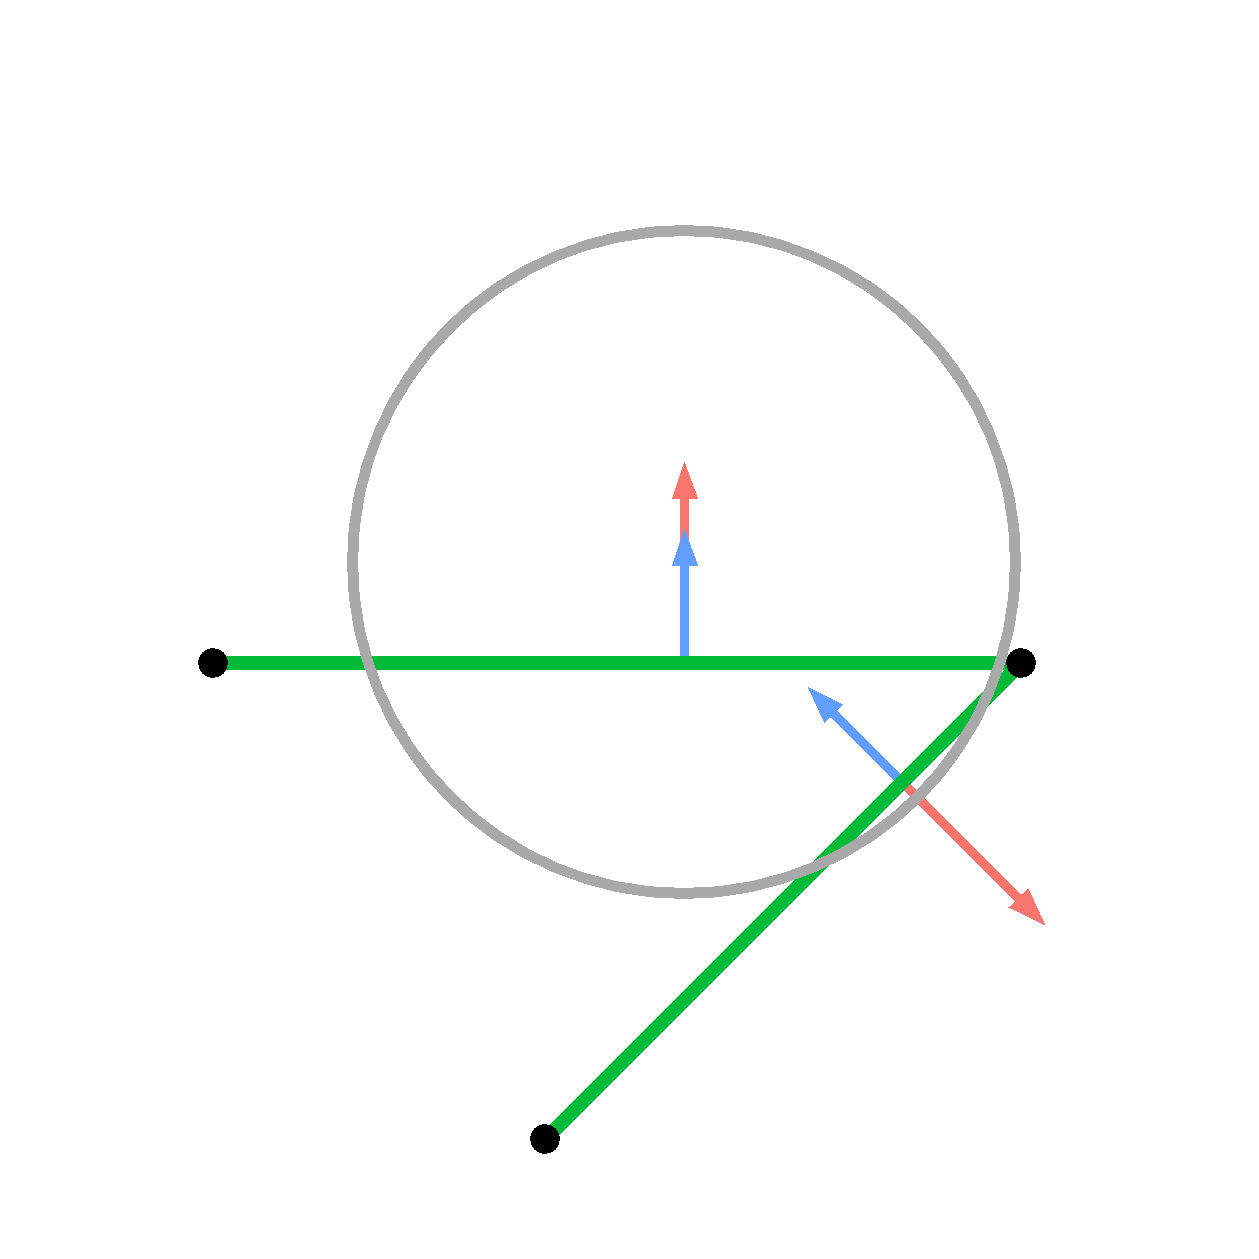
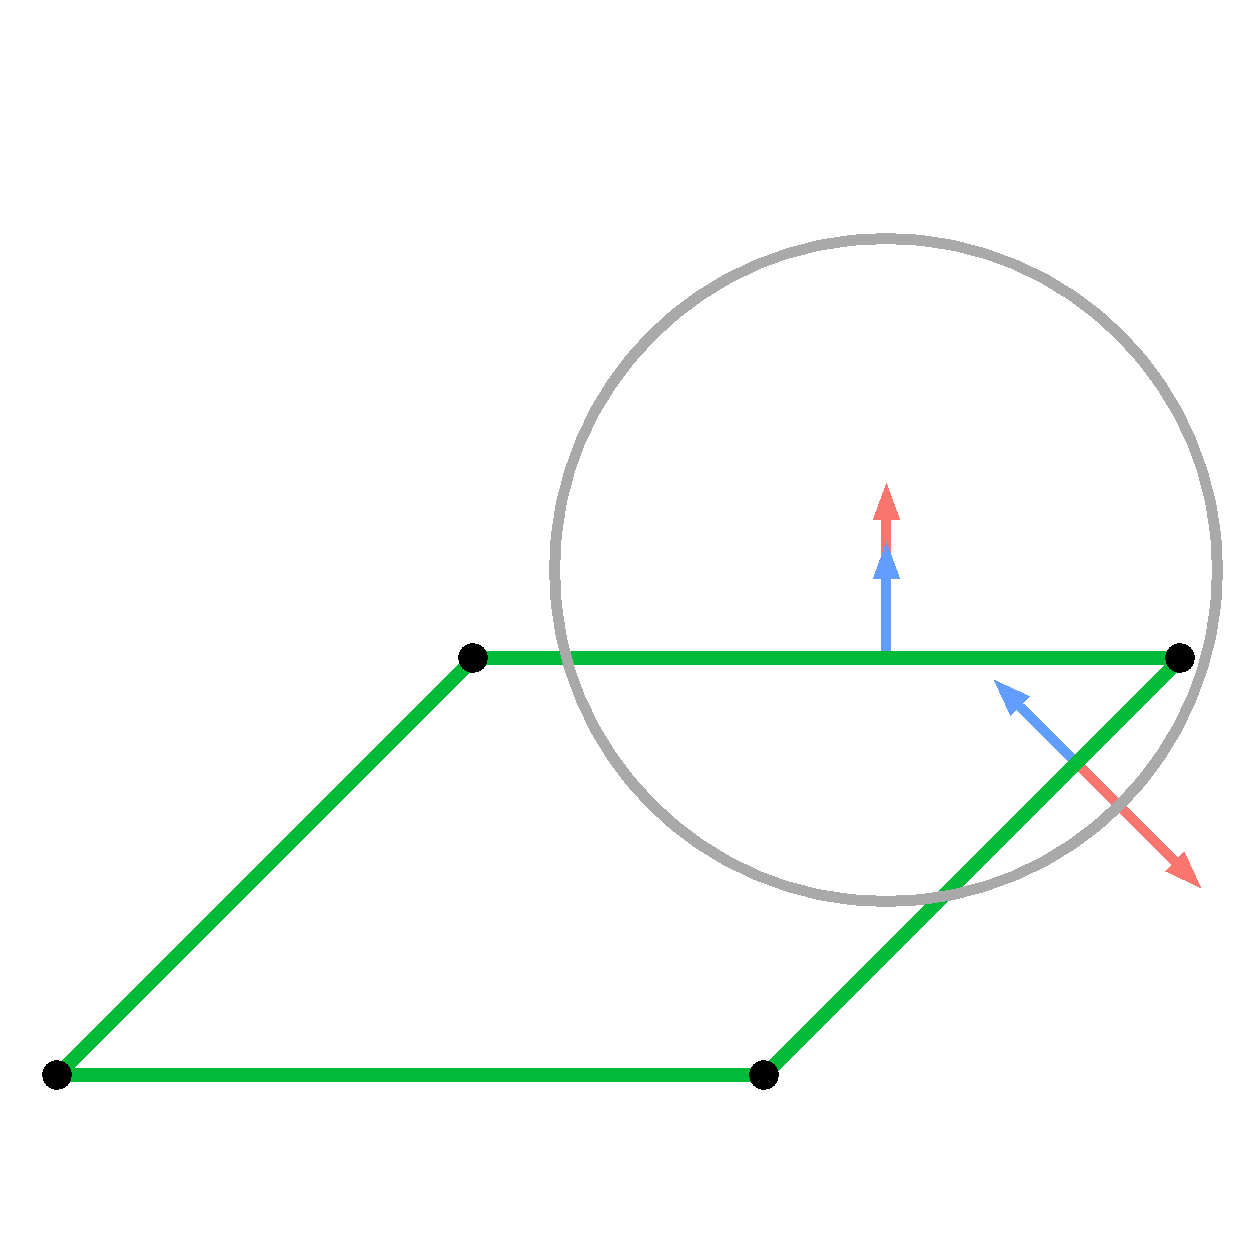
Force revision round 2

diff --git a/doc/src/Howto_granular_surfaces.rst b/doc/src/Howto_granular_surfaces.rst
@@ -182,7 +182,7 @@ to rotate using the :doc:`fix_modify <fix_modify>` command (see
 below).
 
 .. figure:: img/gransurf_mixer.png
-            :figwidth: 50%
+            :figwidth: 75%
             :align: right
             :target: _images/gransurf_mixer.png
 
@@ -352,10 +352,10 @@ the corner is unconnected. Otherwise, the corner is external if either edge is
 external, and internal if both edges are internal.
 
 To calculate force on a particle, LAMMPS finds a set of all lines or triangles
-that are geometrically in contact with the particle, :math:`(S_i)_\mathrm{all}`.
-For each line or traingle *i*, LAMMPS calculates the geometric overlap
-:math:`\delta_i` and the normal vector between the contact point and the
-particle :math:`\hat{n}_{r,i}`.
+that are geometrically in contact with the particle, :math:`{S}_\mathrm{all}`.
+For each line or triangle *i*, LAMMPS calculates the geometric overlap
+:math:`\delta_i` and the normal vector between the contact point on that
+line/triangle and the particle, :math:`\hat{n}_{r,i}`.
 
 Depending on the contact model, the force between a particle and a surface
 can depend on many variables including relative velocities, angular
@@ -363,121 +363,123 @@ velocities, sliding history, etc. Most importantly, the force depends on
 an effective overlap distance :math:`\delta_f` and an effective point of
 contact :math:`\vec{r}_c` or (equivalently) the direction of the normal
 force :math:`\hat{n}_f`. If a particle is in contact with a single line
-or triangle, there is an unambiguous geometrically-determined point of
-contact and overlap such that :math:`\delta_f = \delta_i` and
+or triangle *i*, there is an unambiguous geometrically-determined point
+of contact and overlap such that :math:`\delta_f = \delta_i` and
 :math:`\hat{n}_f = \hat{n}_{r,i}`. If a particle is in contact with two
-lines/triangles that are not connected, then two forces are applied
-with overlaps and directions determined from the geometric values for
-each line/triangle. However, if the particle is in contact with two (or
-more) connected lines/triangles, the calculation of :math:`\delta_f` and
-:math:`\hat{n}_f` is more complicated and is described in the remainder
-of this section.
+(or more) lines/triangles that are not connected, then two forces are
+applied with overlaps and directions determined from the geometric values
+for each line/triangle. However, if the particle is in contact with two
+(or more) connected lines/triangles, the calculation of :math:`\delta_f`
+and :math:`\hat{n}_f` is more complicated and is described in the
+remainder of this section.
 
-First, LAMMPS needs to evaluate a set of consistent sides of contact
-for each line/triangle. For a single line/triangle, which side or
-face of the surface is in contact is unambiguous. However, if a particle
-is in contact with two or more connected lines/triangles this depends on
-the network of connectivity. For instance, the below figure highlights
-a particle (gray circle) in contact with two (green) lines. From a
-naive local determination, one would determine the particle is in
-contact with the sides/faces of the line with a surface normal
-oriented in the blue direction. However, through the context of the
-convex connection, one can identify the physical surface normals (red).
-LAMMPS evaluates a consistent set of sides/faces (setting the sign of
-:math:`\hat{n}_s`) by walking through all connections of contacted
-surfaces starting from the primary contact. If there are still unchecked
-surfaces, LAMMPS finds the unchecked surface with the largest overlap
-and repeats the process.
+First, LAMMPS needs to identify a set of consistent sides of contact
+for each line/triangle in :math:`{S}_\mathrm{all}`. For a single line or
+triangle, which side or face of the surface is in contact is unambiguous.
+However, if a particle is in contact with two or more connected lines/triangles
+this depends on the network of connectivity. For instance, the below figure
+highlights a 2D system with a particle (gray circle) in contact with two (green)
+lines that are part of a rhombus shaped object. From a naive local determination,
+one would determine the particle is in contact with the sides/faces of the line
+with a surface normal oriented in the blue direction, one of which points
+inwards, into the object. However, through the context of the  convex connection,
+one can identify the physical surface normals (red). LAMMPS evaluates a
+consistent set of sides/faces (setting the sign of :math:`\hat{n}_s`) by walking
+through all connections of contacted surfaces starting from the primary contact.
+If there are still unchecked surfaces, LAMMPS finds the unchecked surface with
+the largest overlap and repeats the process.
 
 .. figure:: img/gransurf_consistent_side.png
-            :figwidth: 50%
+            :figwidth: 33%
             :align: right
             :target: _images/consistent_side.png
 
-Next, LAMMPS clusters all contacted lines/triangles into a set of composite
-surfaces each consisting of mututally flat line/triangle surfaces that act as one
-physical object. For composite surface *n*, this set is denoted :math:`(S_i)_{C,n}`.
+Next, LAMMPS clusters all contacted lines/triangles into distinct composite
+sets each consisting of mututally flat line/triangle surfaces that act as one
+physical object, denoted :math:`{S}_{n}` where *n* labels a particular composite.
 For instance, if a particle is touching two flat-connected surfaces
 and a third concave-connected surface, it will group them into two composite
-surfaces of size two and one. Each composite surface calculates an effective
+surfaces of size two and one. Each composite set of surfaces calculates an effective
 contact point and applies a single force on the particle. This clustering is
 performed by starting with the primary contact and checking all of its connections.
-Flat connections are added to the current composite surface and to a list of surfaces
-which need to be walked. Non-flat connections are skipped, however, convex connections
-with smaller overlaps are first flagged to be hidden (described below). LAMMPS then
-iterates one-by-one through the list of surfaces to be walked until it is empty. This
-effectively searches all 1st flat neighbors of the primary contact, then flat
-2nd neighbors, etc. LAMMPS then identifies the next unprocessed surface with the
-largest overlap (the new primary contact) and repeats the process until all
-contacting surfaces have been processed into a composite surface (which can
-consist of single surface). While performing this walk, any hidden flags are passed
-along to subsequently walked flat connecting surfaces.
+Flat connections are added to the current set of surfaces :math:`{S}_{n}` and to a
+list of surfaces which need to be walked. Non-flat connections are skipped, however,
+convex connections with smaller overlaps are first flagged to be hidden (described
+below). LAMMPS then iterates one-by-one through the list of surfaces to be walked
+until it is empty. This effectively searches all 1st flat neighbors of the primary
+contact, then flat 2nd neighbors, etc. LAMMPS then identifies the next unprocessed
+surface with the largest overlap (the new primary contact) and repeats the process
+to create a new set of composite surfaces :math:`{S}_m` and continues until all
+contacting surfaces in :math:`{S}_\mathrm{all}` have been added to a composite set
+(which can consist of single surface). While performing this walk, any hidden flags
+are passed along to subsequently walked flat connecting surfaces such that the
+hidden status cascades around a convex turn.
 
-Given a set of flat surfaces that make up a single composite surface :math:`(S_i)_C`,
-LAMMPS calculates a single force from an effective net overlap :math:`\delta_f` and
-direction :math:`\hat{n}_f`. Before calculating :math:`\delta_f`, the individual
-overlap of any surface *i* flagged as hidden is zeroed, :math:`\delta_i` = 0.
-Then :math:`\delta_f = \mathrm(max)(\delta_i)`. The unit is a weighted average
-across all surfaces in the set :math:`(S_i)_C` or
+For each composite set of flat surfaces :math:`{S}_n`, LAMMPS calculates a single
+force from an effective net overlap :math:`\delta_f` and direction :math:`\hat{n}_f`.
+Before calculating :math:`\delta_f`, the individual overlap of any hidden surface *i*
+is zeroed, :math:`\delta_i` = 0. Then
+:math:`\delta_f = \mathrm{max}(\delta_i | i \in {S}_n)`. The direction of the
+force is a weighted average across all surfaces in the set :math:`{S}_n` or
 :math:`\hat{n}_f = A \sum W_i \delta_i \hat{n}_{f,i}` where :math:`\hat{n}_{f,i}`
-is the calculated direction of force for that surface, :math:`W_i` is a per-surface
+is a calculated direction of force for that surface, :math:`W_i` is a per-surface
 weight, and :math:`A` is a normalization factor.
 
-Before calculating individual directions (:math:`\hat{n}_{f,i}`) and weights
-(:math:`W_i`) for individual surfaces in a composite surface, LAMMPS calculates
+Before describing the calculation of individual directions, :math:`\hat{n}_{f,i}`,
+and weights, :math:`W_i`, for surfaces in a composite, LAMMPS calculates
 a general weight for externally vs. internally contacted surfaces defined as
 :math:`W_\mathrm{ext} \equiv (\delta_\mathrm{max,ext} / \delta_\mathrm{max})^2` and
 :math:`W_\mathrm{int} \equiv 1 - W_\mathrm{ext}`, respectively, where
 :math:`\delta_\mathrm{max,ext}` is the maximum overlap with an externally
-contacted surface in that composite set :math:`(S_i)_C`. This weighting is used
+contacted surface in that composite set :math:`{S}_n`. This weighting is used
 to emphasize contributions from surfaces on a convex boundary as a particle
 moves along the convex turn.
 
-In 2D, a surface's weight :math:`W_i` is either :math:`W_\mathrm{ext}` or
+In 2D, a surface *i*'s weight :math:`W_i` is either :math:`W_\mathrm{ext}` or
 :math:`W_\mathrm{int}` based on its status. By default, :math:`\hat{n}_{f,i}`
 is simply the direction from the local contact point on that surface to the
 particle, :math:`\hat{n}_{r,i}`. Note that if the contact point is inside of
-the line, :math:`\hat{n}_{r,i}` is equivalent to the surface normal
-:math:`\hat{n}_{s,i}`. Howevever, there are two exceptions. If the contact is
-at a concave-connected point then :math:`\hat{n}_{f,i} = \hat{n}_{s,i}`. If
+the line, then :math:`\hat{n}_{r,i}` is equivalent to the surface normal
+:math:`\hat{n}_{s,i}`. However, there are two exceptions. (a) If the contact is
+at a concave-connected point then :math:`\hat{n}_{f,i} = \hat{n}_{s,i}`. (b) If
 the contact is at a convex-connected point and :math:`\hat{n}_{r,i}` has a
-component pointing into the neighboring line vector *j* then
+component pointing into the neighboring line vector of *j* then
 :math:`\hat{n}_{f_i} = \hat{n}_{s,j}`. These rules place limits on how
-how much a resulting force can point into the connected line to ensure smooth
-variations in :math:`\hat{n}_{f_i}` as the paricle turns the bend. Two details
+how much a resulting force can point into the connected line *j* to ensure
+:math:`\hat{n}_{f_i}` smoothly varies as the paricle turns the bend. A few details
 are worth noting. First, as non-flat connecting surfaces are hidden behind
 convex turns (:math:`\delta_i = 0`), the limit in the convex scenario is only
-relevant for flat and convex connections. Secondly, if two flat lines are
-perfectly parallel, then :math:`\hat{n}_{f,i} = \hat{n}_{s,i} = \hat{n}_{s,j}`
-implying the concave/convex designation has no effect.
+relevant for connections that are both flat and convex. Secondly, if two flat
+lines are perfectly parallel, then
+:math:`\hat{n}_{f,i} = \hat{n}_{s,i} = \hat{n}_{s,j}` implying the concave/convex
+designation has no effect. Lastly, if a point is shared by more than two lines,
+then LAMMPS finds which connecting line has a normal vector closest to
+:math:`\hat{n}_{s,i}` to determining whether its a concave or convex connection.
 
 To illustrate, these scenarios are visualized in the figure below. In the left
 panel, a particle at various positions (red, green, blue, and purple) contacts
-a concave bend made up of two lines (coral brown). Here the leftmost surface is
-labeled *i* and the rightmost surface is labelled *j*. The direction of the force
-:math:`\hat{n}_{f,i}` from the leftmost surface is indicated by arrows. Along
-the entire contact, :math:`\hat{n}_{f,i} = \hat{n}_{s,i}` where the normal
-vectors for each line are indicated by gray arrows for clarity. If
-alternatively :math:`\hat{n}_{f,i} = \hat{n}_{r,i}`, then the force at the
-right most positions (blue/purple) would have a relatively large component
-parallel to the adjacent line which would produce an aphysical wobble in
-the direction of the net force from the two lines as the particle moved around
-the bend.
+a concave bend made up of two lines (coral brown). Here the leftmost line is
+labeled *i* and the rightmost line is labelled *j*. The direction of the force
+:math:`\hat{n}_{f,i}` from line *i* is indicated by arrows. Along the entire
+contact, :math:`\hat{n}_{f,i} = \hat{n}_{s,i}` where the normal vectors for each
+line are indicated by gray arrows for clarity. If alternatively
+:math:`\hat{n}_{f,i} = \hat{n}_{r,i}`, then the force at the right most positions
+(blue/purple) would have a relatively large component parallel to the adjacent
+line *j* which would produce an aphysical wobble in the direction of the net force
+from the two lines as the particle moved around the bend. In the right panel, the
+contact point is at a convex corner such that :math:`\hat{n}_{f,i} = \hat{n}_{r,i}`
+(red, green) unless :math:`\hat{n}_{r,i}` has a component pointing into the the
+adjacent line :math:`j`, in which case :math:`\hat{n}_{f,i} = \hat{n}_{s,j}`
+(blue, purple).
 
 .. figure:: img/gransurf_nonflat_turn.png
             :figwidth: 50%
             :align: right
             :target: _images/gransurf_nonflat_turn.png
 
-In the right panel, the contact point is at a convex corner such that
-:math:`\hat{n}_{f,i} = \hat{n}_{r,i}` (red, green) unless
-:math:`\hat{n}_{r,i}` has a component pointing into the the adjacent
-line :math:`j`, in which case :math:`\hat{n}_{f,i} = \hat{n}_{s,j}`
-(blue, purple).
-
 In 3D, first consider a scenario where there are no contacts with free
 or unconnected edges (all edges have at least one connection). Again,
-each composite set of surfaces :math:`{S_i}` calculates a single force.
+each composite set of surfaces :math:`{S}_n` calculates a single force.
 For each surface, if its contact point is inside of the triangle, then
 :math:`\hat{n}_{f,i} = \hat{n}_{s,i}`. If the contact is on an edge, it
 acts much like a point in 2D: a concave connection implies
@@ -486,25 +488,20 @@ acts much like a point in 2D: a concave connection implies
 into the adjacent triangle :math:`j` in which case
 :math:`\hat{n}_{f,i} = \hat{n}_{s,j}`. This is determined by comparing
 the three dot products between :math:`\hat{n}_{s,i}`,
-:math:`\hat{n}_{s,j}`, and :math:`\hat{n}_{r,i}`. Note, if an edge is
-shared by more than two triangles, then LAMMPS finds which connecting
-triangle has a normal vector closest to that :math:`i` in determining
-concave/convex status.
+:math:`\hat{n}_{s,j}`, and :math:`\hat{n}_{r,i}`.
 
 If a particle contacts a corner, then the corner first calculates what
-the :math:`hat{n}_{f,i}` would be had the particle contacted either of
-the two edges, labeled *a* and *b*, :math:`\hat{n}_{f,i,a}` and
-:math:`\hat{n}_{f,i,b}`. For simplicity, the :math:`i` subscript is
-dropped for the remainder of this section as all discussion is focused
-only on that triangle unless otherwise specified. Each of these edges
-have normalized line vectors :math:`\hat{l,a}` and :math:`\hat{l,b}`
-pointing towards the corner in consideration.
+the :math:`\hat{n}_{f,i}` would be had the particle contacted either of
+the two edges, labeled *a* and *b*, :math:`\hat{n}_{f,a}` and
+:math:`\hat{n}_{f,b}` (where the *i* is implied from context). Each of
+these edges have normalized line vectors :math:`\hat{l}_a` and
+:math:`\hat{l}_b` pointing towards the corner in consideration.
 
-If :math:`\hat{n}_{f,a} \cdot \hat{l,b} < 0` (or if the force from
+If :math:`\hat{n}_{f,a} \cdot \hat{l}_b < 0` (or if the force from
 that edge has a component pointing into the other edge), then
-:math:`\hat{n}_{f,a}` is replaced with :math:`\hat{n}_{s}`, and vice
+:math:`\hat{n}_{f,a}` is replaced with :math:`\hat{n}_{s,i}`, and vice
 versa for edge :math:`b`, to avoid forces pointing into the triangle.
-A resulting :math:`\hat{n}_{f}` is then calculated by performing a
+A resulting :math:`\hat{n}_{f,i}` is then calculated by performing a
 weighted average of these two edge contributions such that the result
 interpolates between the two limits as a particle moves from
 contacting one edge to the corner to the other edge.
@@ -512,56 +509,66 @@ contacting one edge to the corner to the other edge.
 The calculation of the two edge weights is more complicated, but a
 brief description is provided below to contextualize the code. Each
 weight is primarily a function of several dot products including
-:math:`C_a = \hat{n}_{r} \cdot \hat{l}_{a}` and
-:math:`D_a = \hat{n}_{r,ip} \cdot \hat{l}_{a}` as well as equivalents
-for edge :math:`b` where :math:`\hat{n}_{r,ip}` is the component of
-:math:`\hat{n}_{r}` that lies within the plane of the triangle. If
-the contact is directly above the corner such that :math:`\hat{n}_{r}`
-is parallel to :math:`\hat{n}_{s}`, then :math:`\hat{n}_{f}` is simply
-set to :math:`\hat{n}_{s}` and this procedure is skipped. The base
+:math:`C_a = \hat{n}_{r,i} \cdot \hat{l}_{a}` and
+:math:`D_a = \hat{n}^p_{r,i} \cdot \hat{l}_{a}` as well as equivalents
+for edge :math:`b` where :math:`\hat{n}^p_{r,i}` is :math:`\hat{n}_{r,i}`
+projected into the plane of the triangle. If the contact is directly above
+the corner such that :math:`\hat{n}_{r,i}` is parallel to
+:math:`\hat{n}_{s,i}`, then :math:`\hat{n}_{f,i}` is simply
+set to :math:`\hat{n}_{s,i}` and this procedure is skipped. The base
 weights are then :math:`W_a = (1-C_a) D_b` and
 :math:`W_b = (1-C_b) D_a`. This construction ensures the weight for,
-say, edge :math:`a` approaches zero as :math:`\hat{n}_{r}` either
+say, edge :math:`a` approaches zero as :math:`\hat{n}_{r,i}` either
 aligns with :math:`\hat{l}_a` (at which point the edge cannot easily
-calculate a realistic force) or becomes perpendicular (in plane)
-to :math:`\hat{l}_b` such that its contribution dominates.
+calculate a realistic force) or becomes perpendicular to
+:math:`\hat{l}_b` such that its contribution dominates.
 
 When evaluating corner contacts, if either of the two edges, say
 :math:`a`, has a convex connection and is hiding another triangle,
 an additional weight is required for that edge to ensure
-:math:`\hat{n}_{f}` continuously transitions as the particle moves
+:math:`\hat{n}_{f,i}` continuously transitions as the particle moves
 across that convex turn to surface :math:`j`. This is calculated in
 terms of the dot product
-:math:`E_a = \hat{n}_{r,a} \cdot (\delta_{s,i} + \delta_{s,j})/2`
-where :math:`\hat{n}_{r,a}` is :math:`\hat{n}_{r}` minus any component
-parallel to :math:`\hat{l}_a`. :math:`W_b` is then multiplied by
+:math:`E_a = \hat{n}^a_{r,i} \cdot (\delta_{s,i} + \delta_{s,j})/2`
+where :math:`\hat{n}^a_{r,i}` is :math:`\hat{n}_{r,i}` after removing any
+component along :math:`\hat{l}_a`. :math:`W_b` is then multiplied by
 :math:`(1-E_a)` which goes to zero as the particle approaches the
 threshold before switching to contacting surface :math:`j` which
 shares edge :math:`a`.
 
 Lastly, there are forces on particles from unconnected (free) edges
-or corners of triangles. First assume there is only one contacted
-triangle and it is not part of a set of flat composite surfaces.
-Forces from edges are calculated identically to a convex-connected
-edge. Unconnected corners (those that have at least one unconnected
-edge) also average contributions from their two edges. If both edges
-are connected (or unconnected), this average is the same. However,
-if one is connected and the other is unconnected then the contribution
-from the connected edge, say :math:`a`, is modified.
+or corners of triangles. Currently, LAMMPS does not calculate or store
+the quasi-2D connectivity information between unconnected edges along
+a border and therefore forces are not guaranteed to vary in a physically
+realistic manner as a particle moves along it (e.g. forces are not censored
+from the far edge as a particle moves along a convex bend in the border).
+However, the below calculation is designed to prioritize continuity in the
+direction of force and ensure forces always point away from the surface's
+border as expected. It is generally recommended that if a surface has
+an exposed border, it should be designed to be relatively simple and smooth.
+
+First assume there is only one contacted triangle in a composite set. Forces
+from edges are calculated identically to a convex-connected edge. Unconnected
+corners (those that have at least one unconnected edge) also average
+contributions from their two edges. If both edges are connected (or unconnected),
+this average is the same. However, if one is connected and the other is
+unconnected then the contribution from the connected edge, say :math:`a`, is
+modified.
 
 For interpolating between unconnected and connected limits, a general
 weighting :math:`W_c = \mathrm{max}(0.0, 1.0 - dr_{uc} / \delta_\mathrm{max})`
-is used where :math:`dr_{uc}` is the maximum in-plane distance outside of
-a triangle in the composite surface from an unconnected corner or edge.
-This weight goes to zero as the particle is on top of a surface and grows
-as the particle moves off of and away from the surface. It multiplies
-the weight :math:`W` for all surfaces that are not contacted on an
-unconnected feature. Additionally, these surfaces multiply :math:`W`
-by a factor of
-:math:`W_{ip} = \mathrm{min}(1.0, \hat{n}_{s} \cdot \hat{n}_{r} / (1 - W_c))`.
-This term effectively goes to zero as the particle moves within the plane of the
-surface. Practically, this should only happen when a particle is outside and
-away from the surface and is primarily contacting the unconnected edge.
+is used where :math:`dr_{uc}` is the maximum in-plane distance away from a
+triangle's unconnected corner or edge in the composite set. If the particle
+sits on top of the effective surface from the set, this weight is zero. As
+the particle moves off of and away from this effective surface, the weight
+approaches one. :math:`W_i` for all surfaces that are not contacted on an
+unconnected feature is then multiplied by :math:`W_c`. Additionally, these
+surfaces multiply :math:`W_i` by a factor of
+:math:`W_{ip} = \mathrm{min}(1.0, \hat{n}_{s,i} \cdot \hat{n}_{r,i} / (1 - W_c))`.
+This term goes to zero as the particle moves within the plane of the surface,
+which practically should only happen when a particle is outside and away from
+the surface. This term avoids complications when internal connections cannot
+determine which side of the surface is being contacted.
 
 Lastly, when contacting an unconnected corner which has one unconnected edge
 and one connected edge, the contribution from the connected edge is multiplied
@@ -595,7 +602,7 @@ than the expected overlap distance between a particle and a surface can
 lead to unintended additional forces.
 
 .. figure:: img/gransurf_U_geom.png
-            :figwidth: 50%
+            :figwidth: 75
             :align: right
             :target: _images/gransurf_U_geom.png
 